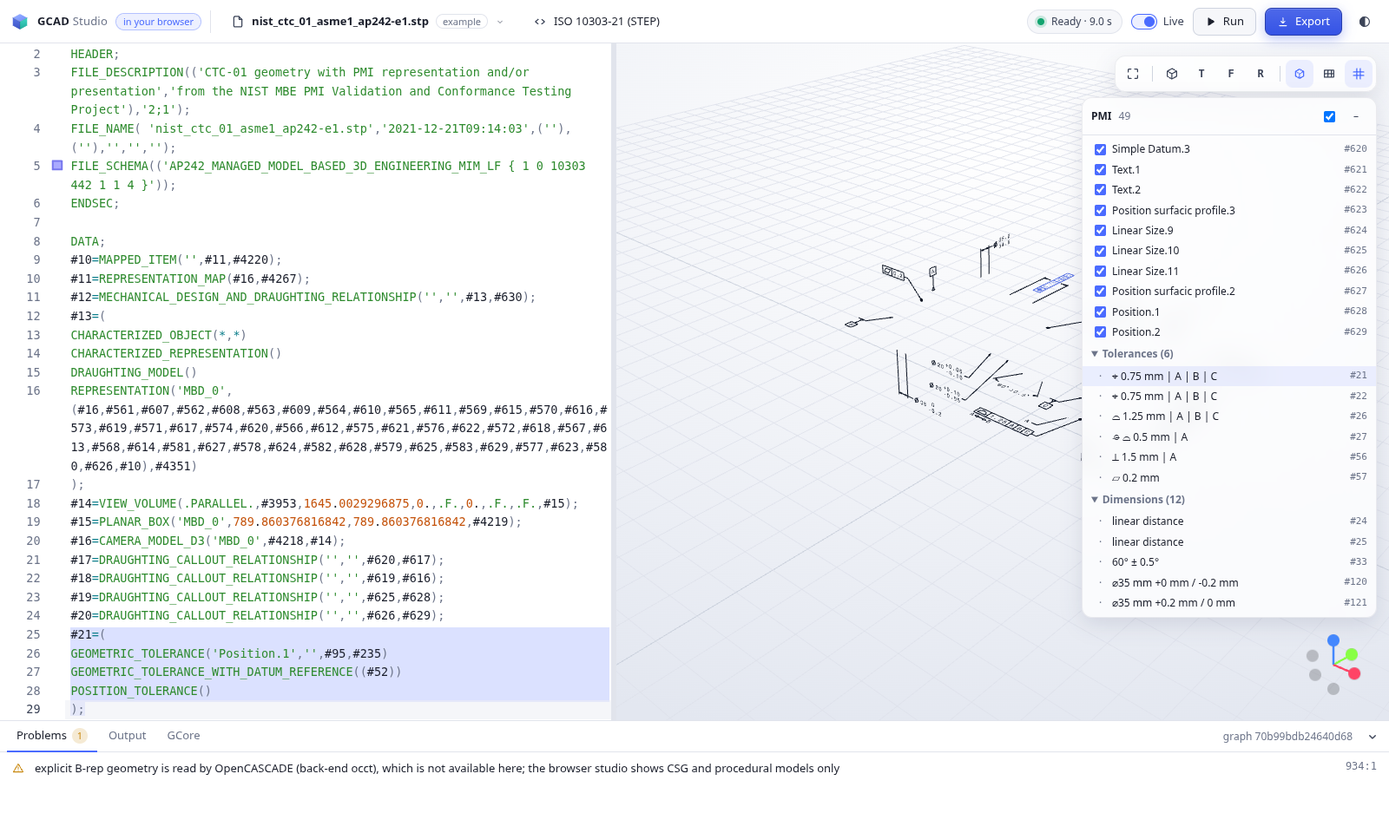
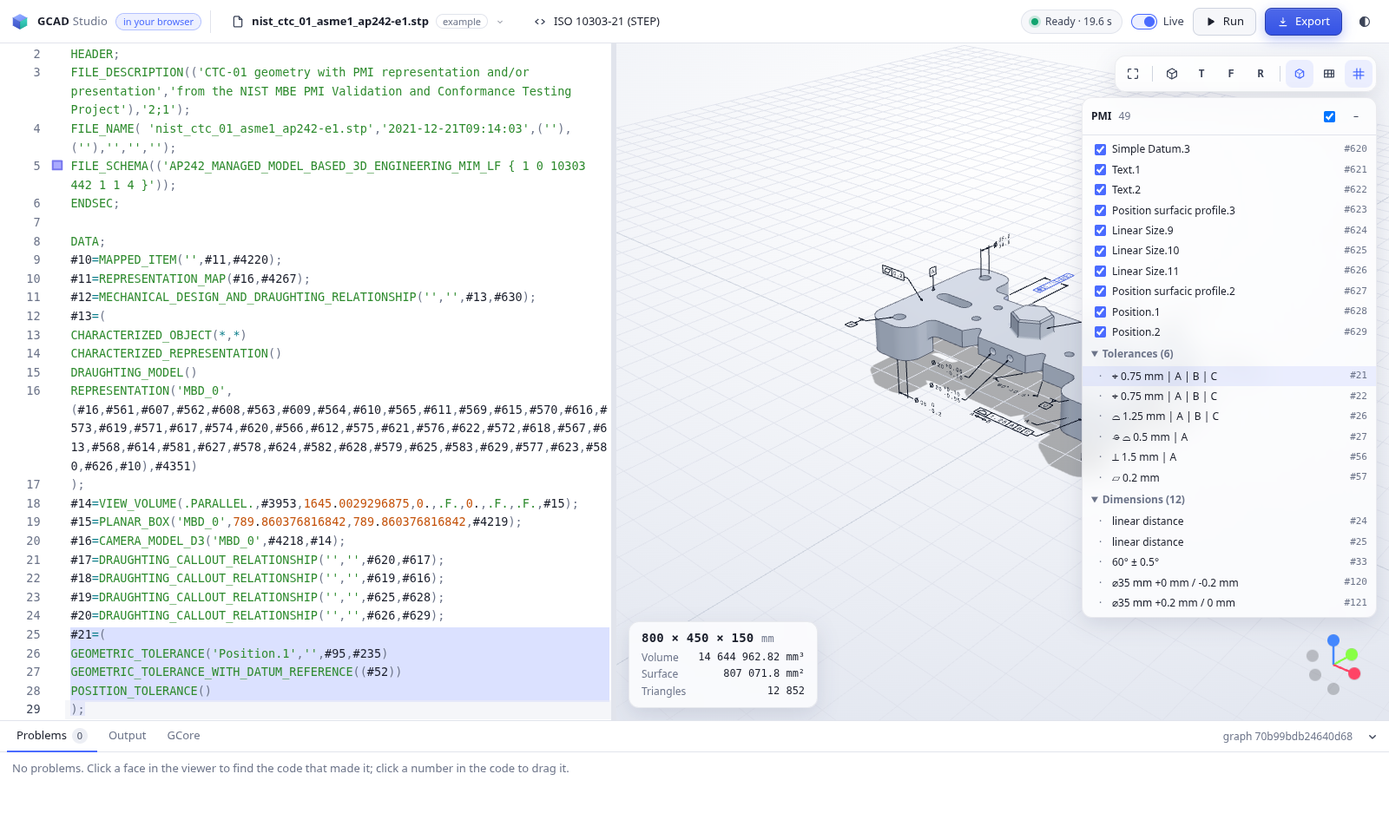
fix(web): draw explicit B-rep STEP parts in the browser with OpenCASCADE's WebAssembly build
The web studio left a STEP file's B-rep out and showed its PMI floating
in space. OpenCASCADE's WebAssembly build (occt-import-js 0.0.23,
LGPL-2.1, pinned and SHA-256-checked in tools/site-assets.toml) now
reads and tessellates it in the worker, loaded only when a STEP file is
evaluated. Faces keep their #n: OpenCASCADE explores a solid's faces in
the order its CLOSED_SHELL lists them, checked against OCP's entity
numbers on both NIST examples. The Manifold JS binding gains run ids,
face ids and reserve_ids; welding is shared with back-end B.

CTC-01 in the browser: volume 14,644,962.82 mm3 (native .72), the same
#n and source span on all 117 faces. The site grows from 20.3 to 28.2 MB.

diff --git a/src/gcad/web/js/worker.js b/src/gcad/web/js/worker.js
@@ -9,6 +9,30 @@ const ROOT = "/home/pyodide/studio"; // user files, backed by IndexedDB
 const status = (text) => postMessage({ type: "status", text });
 let pyodide = null;
 let handle = null;
+let occt = null;
+
+// OpenCASCADE's WebAssembly build (occt-import-js, 7.6 MB): fetched the first time a STEP file
+// is evaluated, then kept. Its script defines a global factory, so it is evaluated, not
+// imported. Python reaches it as the JS module `_gcad_occt` (gcad/backends/occt_js.py).
+async function ensureOcct() {
+  if (occt) return occt;
+  occt = (async () => {
+    status("Loading OpenCASCADE");
+    const base = new URL("occt/", site);
+    const code = await (await fetch(new URL("occt-import-js.js", base))).text();
+    const factory = new Function(`${code}\nreturn occtimportjs;`)();
+    const module = await factory({ locateFile: (path) => new URL(path, base).href });
+    pyodide.registerJsModule("_gcad_occt", module);
+    return module;
+  })();
+  try {
+    return await occt;
+  } catch (error) {
+    occt = null; // try again next time; meanwhile STEP B-rep is left out with a warning
+    status(`OpenCASCADE could not be loaded (${error})`);
+    return null;
+  }
+}
 
 function syncfs(populate) {
   return new Promise((resolve) => pyodide.FS.syncfs(populate, (error) => {
@@ -49,6 +73,7 @@ onmessage = async ({ data }) => {
   }
   let response;
   let fatal = false;
+  if (data.kernel === "iso10303") await ensureOcct();
   try {
     response = handle(data.request);
     if (data.method === "file/save") await syncfs(false);

diff --git a/src/gcad/web/js/worker-client.js b/src/gcad/web/js/worker-client.js
@@ -62,7 +62,8 @@ export class WorkerTransport {
     if (!this.active.ready || this.running || !this.queue.length) return;
     const job = (this.running = this.queue.shift());
     const request = JSON.stringify({ jsonrpc: "2.0", id: job.id, method: job.method, params: job.params });
-    this.active.worker.postMessage({ type: "request", id: job.id, method: job.method, request });
+    // The kernel tells the worker what to load first (OpenCASCADE for STEP files).
+    this.active.worker.postMessage({ type: "request", id: job.id, method: job.method, kernel: job.params?.kernel, request });
   }
 
   supersede(job) {

diff --git a/src/gcad/web/js/main.js b/src/gcad/web/js/main.js
@@ -146,7 +146,7 @@ const fmt = (v) => number.format(v).replace(/,/g, " ");
 function showModelCard(result) {
   const card = $("#model-card");
   card.replaceChildren();
-  // Nothing built (a B-rep left out in the browser, only its annotations shown): no stats.
+  // Nothing built (a B-rep left out where no OpenCASCADE exists, only its PMI shown): no stats.
   card.hidden = !result.bounds;
   if (!result.bounds) return;
   const [lo, hi] = result.bounds;

diff --git a/src/gcad/backends/occt_js.py b/src/gcad/backends/occt_js.py
@@ -1,0 +1,84 @@
+"""Explicit B-rep in the browser: OpenCASCADE compiled to WebAssembly (SPEC §4.1, FR-I5).
+
+OCP has no Pyodide build, so the web studio reads a STEP file's B-rep with occt-import-js, the
+same OpenCASCADE behind a small JS API (LGPL-2.1, a separate file the site serves). The web
+worker loads it only when a STEP file is evaluated, and registers it as the JS module
+`_gcad_occt`. It gives triangles per B-rep face, in millimetres, in the order OpenCASCADE
+explores the faces, which for a solid is the order its CLOSED_SHELL lists them: so each face
+keeps the `#n` it was written as, as with back-end B natively.
+"""
+
+from __future__ import annotations
+
+import re
+
+import numpy as np
+
+from gcad.diagnostics import GcadError, Span
+from gcad.mesh import Mesh, MeshGroup, weld
+
+_SHELL = re.compile(rb"(?:CLOSED|OPEN)_SHELL\s*\(\s*'(?:[^']|'')*'\s*,\s*\(([^)]*)\)")
+
+
+def available() -> bool:
+    try:
+        import _gcad_occt  # noqa: F401  (registered by js/worker.js)
+    except ImportError:
+        return False
+    return True
+
+
+def shell_faces(data: bytes) -> list[list[str]]:
+    """The faces of each shell of a Part 21 file, as `#n`, in the order the file lists them."""
+    return [
+        [f.strip().decode("ascii") for f in m.group(1).split(b",")] for m in _SHELL.finditer(data)
+    ]
+
+
+def read_step(data: bytes, tolerance: float, node_id: str, span: Span | None = None) -> Mesh:
+    """The B-rep of a STEP file as one welded mesh, a group per face labelled with its `#n`
+    when the faces OpenCASCADE made match the file's shells one for one."""
+    import _gcad_occt as occt
+    import js
+    from pyodide.ffi import to_js
+
+    params = to_js(
+        {
+            "linearUnit": "millimeter",
+            "linearDeflectionType": "absolute_value",
+            "linearDeflection": float(tolerance),
+            "angularDeflection": 0.5,
+        },
+        dict_converter=js.Object.fromEntries,
+    )
+    result = occt.ReadStepFile(to_js(data), params)
+    if not result.success:
+        raise GcadError("OpenCASCADE (WebAssembly) could not read the STEP data", span)
+    points: list[np.ndarray] = []
+    triangles: list[np.ndarray] = []
+    face_of_triangle: list[np.ndarray] = []
+    faces = 0
+    base = 0
+    for mesh in result.meshes:
+        pos = np.asarray(mesh.attributes.position.array.to_py(), dtype=np.float64).reshape(-1, 3)
+        tri = np.asarray(mesh.index.array.to_py(), dtype=np.int64).reshape(-1, 3) + base
+        owner = np.zeros(len(tri), dtype=np.int64)
+        for face in mesh.brep_faces:
+            owner[int(face.first) : int(face.last) + 1] = faces
+            faces += 1
+        points.append(pos)
+        triangles.append(tri)
+        face_of_triangle.append(owner)
+        base += len(pos)
+    if not triangles or sum(len(t) for t in triangles) == 0:
+        raise GcadError("OpenCASCADE (WebAssembly) found no faces in the STEP data", span)
+    vertices, tris, keep = weld(np.concatenate(points), np.concatenate(triangles), tolerance)
+    owner = np.concatenate(face_of_triangle)[keep]
+    names: list[str | None] = [n for shell in shell_faces(data) for n in shell]
+    if len(names) != faces:  # an assembly or a file this reading does not match: no labels
+        names = [None] * faces
+    groups = [MeshGroup(node_id, None, name) for name in names]
+    used = sorted(set(owner.tolist()))
+    remap = np.zeros(max(faces, 1), dtype=np.int64)
+    remap[used] = np.arange(len(used))
+    return Mesh(vertices, tris, [groups[i] for i in used], remap[owner])

diff --git a/src/gcad/backends/manifold_backend.py b/src/gcad/backends/manifold_backend.py
@@ -194,30 +194,36 @@ class _Realizer:
     def imported(self, node: Node, color: RGBA | None) -> mf.Manifold:
         """Geometry handed over as a file (an `import` node). A triangle mesh is read as it
         is. Explicit B-rep (STEP) is read and tessellated by OpenCASCADE, as for any mesh
-        export from back-end B; without OpenCASCADE (the web studio, Windows on ARM) nothing
-        here can read it. Each B-rep face keeps its own id through booleans, labelled with the
-        file entity it came from."""
+        export from back-end B: natively through OCP, in the web studio through its WebAssembly
+        build. Without either (Windows on ARM) nothing here can read it. Each B-rep face keeps
+        its own id through booleans, labelled with the file entity it came from."""
         fmt, digest = str(node.arg("format")), str(node.arg("data"))
         if digest not in self.blobs:
             raise GcadError("the data this import reads is not in the graph", node.span)
         if fmt != "step":
             return self.tag(self.imported_mesh(node, fmt, digest), node, color)
+        entity = int(node.num("entity"))
         try:
             from gcad.backends.occt_backend import OcctModel, read_step, step_face_names
         except ImportError:
-            error = GcadError(
-                "explicit B-rep geometry is read by OpenCASCADE (back-end occt), which is not "
-                "available here; the browser studio shows CSG and procedural models only",
-                node.span,
-            )
-            if self.skip_imports:
-                self.skipped.append(error)
-                return mf.Manifold()
-            raise error from None
-        entity = int(node.num("entity"))
-        shape = read_step(self.blobs[digest], entity, digest, node.span)
-        names = step_face_names(digest, entity)
-        mesh = OcctModel(shape, 3, self.tolerance, node.id, None, None, names).mesh()
+            from gcad.backends import occt_js
+
+            if occt_js.available():
+                mesh = occt_js.read_step(self.blobs[digest], self.tolerance, node.id, node.span)
+            else:
+                error = GcadError(
+                    "explicit B-rep geometry is read by OpenCASCADE (back-end occt), which is "
+                    "not available here",
+                    node.span,
+                )
+                if self.skip_imports:
+                    self.skipped.append(error)
+                    return mf.Manifold()
+                raise error from None
+        else:
+            shape = read_step(self.blobs[digest], entity, digest, node.span)
+            names = step_face_names(digest, entity)
+            mesh = OcctModel(shape, 3, self.tolerance, node.id, None, None, names).mesh()
         original = int(mf.Manifold.reserve_ids(1))
         try:
             m = mf.Manifold(

diff --git a/src/gcad/backends/manifold_js.py b/src/gcad/backends/manifold_js.py
@@ -86,6 +86,7 @@ class Mesh:
         tri_verts: np.ndarray,
         run_index: np.ndarray | None = None,
         run_original_id: np.ndarray | None = None,
+        face_id: np.ndarray | None = None,
     ) -> None:
         self.vert_properties = np.asarray(vert_properties)
         self.tri_verts = np.asarray(tri_verts)
@@ -93,6 +94,7 @@ class Mesh:
         self.run_original_id = (
             run_original_id if run_original_id is not None else np.zeros(0, dtype=np.uint32)
         )
+        self.face_id = face_id if face_id is not None else np.zeros(0, dtype=np.uint32)
 
 
 class CrossSection(_Owned):
@@ -162,6 +164,14 @@ class Manifold(_Owned):
                 "vertProperties": _array(props, "<f4", js.Float32Array),
                 "triVerts": _array(mesh.tri_verts, "<u4", js.Uint32Array),
             }
+            # runs and face ids, as manifold3d takes them: an imported B-rep keeps its faces
+            for key, values in (
+                ("runIndex", mesh.run_index),
+                ("runOriginalID", mesh.run_original_id),
+                ("faceID", mesh.face_id),
+            ):
+                if len(values):
+                    options[key] = _array(np.asarray(values), "<u4", js.Uint32Array)
             js_mesh = _wasm.Mesh.new(to_js(options, dict_converter=js.Object.fromEntries))
             try:
                 _js = _wasm.Manifold.new(js_mesh)
@@ -250,6 +260,10 @@ class Manifold(_Owned):
     def original_id(self) -> int:
         return int(self._js.originalID())
 
+    @staticmethod
+    def reserve_ids(n: int) -> int:
+        return int(_wasm.Manifold.reserveIDs(int(n)))
+
     def status(self) -> Error:
         return self._failed or Error(self._js.status())
 
@@ -275,4 +289,5 @@ class Manifold(_Owned):
             _numpy(m.triVerts, "<u4").reshape(-1, 3),
             _numpy(m.runIndex, "<u4"),
             _numpy(m.runOriginalID, "<u4"),
+            _numpy(m.faceID, "<u4"),
         )

diff --git a/src/gcad/backends/occt_backend.py b/src/gcad/backends/occt_backend.py
@@ -56,7 +56,7 @@ except ImportError:  # pragma: no cover - OCP 7.x
 
 from gcad.core.graph import ATTRIBUTE_OPS, Graph, Node, default_tolerance, node_matrix
 from gcad.diagnostics import GcadError, Span
-from gcad.mesh import RGBA, Mesh, MeshGroup
+from gcad.mesh import RGBA, Mesh, MeshGroup, weld
 
 POLYGONAL_FN_MAX = 16  # an explicit $fn up to this makes a polygon, as in OpenSCAD
 
@@ -199,16 +199,7 @@ class OcctModel:
                 triangles.append((base + a - 1, base + b - 1, base + c - 1))
                 tri_groups.append(g)
         # Faces carry their own copies of shared edge nodes: weld them.
-        raw = np.asarray(points, dtype=np.float64).reshape(-1, 3)
-        key = np.round(raw / max(self.tolerance * 1e-4, 1e-9)).astype(np.int64)
-        _, first, inverse = np.unique(key, axis=0, return_index=True, return_inverse=True)
-        order = np.argsort(first)
-        rank = np.empty_like(order)
-        rank[order] = np.arange(len(order))
-        vertices = raw[first[order]]
-        tris = rank[inverse.ravel()][np.asarray(triangles, dtype=np.int64).reshape(-1, 3)]
-        keep = (tris[:, 0] != tris[:, 1]) & (tris[:, 1] != tris[:, 2]) & (tris[:, 0] != tris[:, 2])
-        tris = tris[keep]
+        vertices, tris, keep = weld(np.asarray(points), np.asarray(triangles), self.tolerance)
         tri_group = np.asarray(tri_groups, dtype=np.int64).reshape(-1)[keep]
         used = sorted(set(tri_group.tolist()))
         if used != list(range(len(groups))):  # drop groups left without triangles

diff --git a/tests/test_web.py b/tests/test_web.py
@@ -187,10 +187,13 @@ def test_every_example_matches_the_native_mesh_backend(page: object, native: Stu
         assert web["hash"] == ref["hash"], example["name"]
         assert web.get("annotations") == ref.get("annotations"), example["name"]
         if any(g.get("entity") for g in ref.get("groups", [])):
-            # explicit B-rep: OpenCASCADE reads it natively; the browser has none, leaves it out
-            # with a warning and still shows the file's PMI (AC-30)
-            assert web["triangles"] == 0 and web["annotations"], example["name"]
-            assert any("OpenCASCADE" in d["message"] for d in web["diagnostics"])
+            # explicit B-rep: read by OpenCASCADE natively and by its WebAssembly build here,
+            # which meshes it a little differently: the same solid, the same labelled faces
+            assert web["triangles"] > 0, example["name"]
+            assert web["volume"] == pytest.approx(ref["volume"], rel=1e-4), example["name"]
+            assert np.allclose(web["bounds"], ref["bounds"], rtol=1e-6, atol=1e-6), example["name"]
+            faces = {g["entity"]: g["spans"] for g in web["groups"]}
+            assert faces == {g["entity"]: g["spans"] for g in ref["groups"]}, example["name"]
             continue
         assert np.allclose(web["bounds"], ref["bounds"], rtol=1e-6, atol=1e-6), example["name"]
         assert web["area"] == pytest.approx(ref["area"], rel=1e-6), example["name"]

diff --git a/src/gcad/mesh.py b/src/gcad/mesh.py
@@ -53,3 +53,21 @@ class Mesh:
         group_color = np.array([colors.index(g.color) for g in self.groups], dtype=np.int64)
         tri_color = group_color[self.tri_group] if len(self.groups) else np.zeros(0, np.int64)
         return [(c, np.flatnonzero(tri_color == i)) for i, c in enumerate(colors)]
+
+
+def weld(
+    points: np.ndarray, triangles: np.ndarray, tolerance: float
+) -> tuple[np.ndarray, np.ndarray, np.ndarray]:
+    """Merge points closer than a ten-thousandth of the tolerance: a B-rep's faces are meshed
+    each with its own copy of their shared edges. Returns the vertices in order of first use,
+    the triangles on them, and which input triangles were kept (not collapsed to a line)."""
+    raw = np.asarray(points, dtype=np.float64).reshape(-1, 3)
+    key = np.round(raw / max(tolerance * 1e-4, 1e-9)).astype(np.int64)
+    _, first, inverse = np.unique(key, axis=0, return_index=True, return_inverse=True)
+    order = np.argsort(first)
+    rank = np.empty_like(order)
+    rank[order] = np.arange(len(order))
+    vertices = raw[first[order]]
+    tris = rank[inverse.ravel()][np.asarray(triangles, dtype=np.int64).reshape(-1, 3)]
+    keep = (tris[:, 0] != tris[:, 1]) & (tris[:, 1] != tris[:, 2]) & (tris[:, 0] != tris[:, 2])
+    return vertices, tris[keep], keep

diff --git a/tools/build_site.py b/tools/build_site.py
@@ -162,6 +162,12 @@ def build(out: Path, cache: Path) -> None:
     for name, data in npm_files(fetch(mf["url"], mf["sha256"], cache), mf["files"]).items():
         (out / "manifold" / name).write_bytes(data)
 
+    oc = assets["occt"]
+    print(f"occt-import-js {oc['version']}")
+    (out / "occt").mkdir()
+    for name, data in npm_files(fetch(oc["url"], oc["sha256"], cache), oc["files"]).items():
+        (out / "occt" / Path(name).name).write_bytes(data)
+
     (out / "wheels").mkdir()
     wheels: list[str] = []
     for wheel in assets["wheels"]:
@@ -186,6 +192,8 @@ def build(out: Path, cache: Path) -> None:
             for name in packages
         ),
         f"- manifold-3d {mf['version']} ({mf['license']}): {mf['source']}; see manifold/LICENSE",
+        f"- occt-import-js {oc['version']} with OpenCASCADE ({oc['license']}): {oc['source']}; "
+        "see occt/license.occt-import-js.txt and occt/license.occt.txt",
         *(f"- {w['name']} {w['version']} ({w['license']})" for w in assets["wheels"]),
         "- three.js and CodeMirror (MIT): see vendor/",
         "",

diff --git a/src/gcad/server.py b/src/gcad/server.py
@@ -246,7 +246,7 @@ class Studio:
         file: str | None = None,
         diagnostics: list[Diagnostic] | None = None,
     ) -> dict[str, object]:
-        # Without OpenCASCADE (the browser) an imported B-rep is left out with a warning, so
+        # Without any OpenCASCADE (Windows on ARM) an imported B-rep is left out with a warning, so
         # the rest of the model and its annotations still show.
         from gcad.backends.manifold_backend import ManifoldBackend
 

diff --git a/docs/design/iso10303-kernel.md b/docs/design/iso10303-kernel.md
@@ -129,7 +129,7 @@ Reuse of freecad-nxstyle (decided, not forked silently): `p21.py`, `express.py`,
 
 **(b) Grammar and semantics meet at the record.** Lark decides the exchange structure (§1.2); everything that needs another instance or a schema is the semantic layer (§1.3), run by the engine after parsing. Its violations are errors with `origin = "check"`: the console shows them and `gcad eval` exits non-zero, but the model is still built, so an OpenCASCADE file with the wrong AP242 protocol name (error 14 of §6) still opens.
 
-**(c) Explicit B-rep is read by OpenCASCADE, a file at a time.** The `import` op names the file's text by SHA-256; back-end B reads it with `STEPControl_Reader`, back-end M tessellates that and uses the mesh. Rejected: one import per solid entity, because OpenCASCADE 8 cannot transfer a single `MANIFOLD_SOLID_BREP` (`TransferEntity` refuses it, and asking the transient process for a result crashes). Consequence: an explicit solid inside a history (a Part 55 hybrid step) is refused with a diagnostic. In the browser there is no OpenCASCADE: B-rep files give a diagnostic that says so; CSG and procedural files work.
+**(c) Explicit B-rep is read by OpenCASCADE, a file at a time.** The `import` op names the file's text by SHA-256; back-end B reads it with `STEPControl_Reader`, back-end M tessellates that and uses the mesh. Rejected: one import per solid entity, because OpenCASCADE 8 cannot transfer a single `MANIFOLD_SOLID_BREP` (`TransferEntity` refuses it, and asking the transient process for a result crashes). Consequence: an explicit solid inside a history (a Part 55 hybrid step) is refused with a diagnostic. In the browser OpenCASCADE's WebAssembly build, occt-import-js (LGPL-2.1, a separate 7.6 MB file the site serves and the worker loads only for STEP files), reads and tessellates the file the same way ([`occt_js.py`](../../src/gcad/backends/occt_js.py)); it gives no entity numbers, so a face's `#n` comes from the order of the faces, which for a solid is the order its CLOSED_SHELL lists them (checked against OCP's entity numbers on both NIST examples, and by the web test). Where neither exists (Windows on ARM) a B-rep file gives a diagnostic that says so.
 
 **(d) EXPRESS stays a validation layer.** A kernel's job is to produce geometry; an EXPRESS schema has none. Schema browsing and checking are `gcad iso schema` and `gcad iso check`. Rejected for now: an `express` highlighting kernel (its grammar is Part 11 annex A, about 330 productions, ambiguous by design, §1.2).
 
@@ -181,20 +181,20 @@ Requested 2026-10-27, after the M14 brief. A STEP AP242 file's annotations are r
 | `(annotate id label ...)`: annotations beside the graph, never in it (FR-C11) | [`annotations.py`](../../src/gcad/core/annotations.py), builtins | a callout's lines and glyph triangles, a tolerance's text and faces, a saved view's camera; no graph hash changes, no back-end sees them |
 | named records (`(record "#12" ...)` is named `#12`) and mesh groups labelled with the source entity a face came from | evaluator, [`mesh.py`](../../src/gcad/mesh.py), both back-ends | OpenCASCADE says which `ADVANCED_FACE` each face was read from (`EntityFromShapeResult` gives the model index, which is the instance order in the file); Manifold keeps each face's id through booleans; the studio points a face at its `#n` line and lights up the faces a tolerance applies to |
 | `position`, `positions`, native `filter` | builtins | lookup tables for files of thousands of instances; the PMI pass went from 12 s to under 2 s on CTC-01 |
-| a preview without OpenCASCADE leaves an import out with a warning | [`manifold_backend.py`](../../src/gcad/backends/manifold_backend.py), [`server.py`](../../src/gcad/server.py) | the web studio shows a B-rep file's PMI without its solid |
+| explicit B-rep in the browser through OpenCASCADE's WebAssembly build; a preview with no OpenCASCADE at all leaves an import out with a warning | [`occt_js.py`](../../src/gcad/backends/occt_js.py), [`manifold_backend.py`](../../src/gcad/backends/manifold_backend.py), [`worker.js`](../../src/gcad/web/js/worker.js) | the web studio shows a B-rep file's part with its PMI |
 | `time_limit` in `kernel.toml` (at most 60 s) | [`kernels/__init__.py`](../../src/gcad/kernels/__init__.py), pipeline | STEP files are data; the web studio's Python needs more than 10 s on a PMI file |
 | the checker caches its result per text | [`check.py`](../../src/gcad/iso10303/check.py) | the studio re-runs a file on every edit; CTC-01's rules take 20 s |
 | the annotation panel and overlay (FR-U11) | [`pmi.js`](../../src/gcad/web/js/pmi.js), [`viewer.js`](../../src/gcad/web/js/viewer.js) | sections, a check box per drawn annotation, saved views as chips, details, faces as `#n` chips |
 
 **Mapping.** A DRAUGHTING_CALLOUT (or an occurrence in none) becomes one annotation of kind `callout`, drawn from its occurrences: TESSELLATED_ANNOTATION_OCCURRENCE with TESSELLATED_GEOMETRIC_SET, REPOSITIONED_TESSELLATED_ITEM (its placement), TESSELLATED_CURVE_SET (line strips), COMPLEX_TRIANGULATED_SURFACE_SET (strips and fans) and TRIANGULATED_SURFACE_SET (the glyphs NIST's files fill); ANNOTATION_CURVE_OCCURRENCE and ANNOTATION_OCCURRENCE with GEOMETRIC_CURVE_SET or GEOMETRIC_SET of POLYLINE, CIRCLE and COMPOSITE_CURVE. Coordinates are in the draughting model's units, converted to mm. A DRAUGHTING_MODEL with a CAMERA_MODEL_D3 is a saved view: the callouts among its items or in its ANNOTATION_PLANEs, and the camera looking down the negative z of its view reference system. GEOMETRIC_TOLERANCE and its 15 subtypes (simple or complex, with datum systems, modifiers, a cylindrical TOLERANCE_ZONE as ⌀, ALL_AROUND_SHAPE_ASPECT as ⌮), DIMENSIONAL_SIZE/LOCATION and their angular subtypes (values from DIMENSIONAL_CHARACTERISTIC_REPRESENTATION, ± from PLUS_MINUS_TOLERANCE, limits, theoretical as [ ], statistical as <ST>), DATUM, DATUM_FEATURE, DATUM_TARGET, PLACED_DATUM_TARGET_FEATURE and DATUM_SYSTEM are listed. Faces: GEOMETRIC_ITEM_SPECIFIC_USAGE and ITEM_IDENTIFIED_REPRESENTATION_USAGE from an aspect, through plain SHAPE_ASPECT_RELATIONSHIPs from composite aspects to their members, and from a datum to its features. DRAUGHTING_MODEL_ITEM_ASSOCIATION links each semantic item to its callout. Not shown: ANNOTATION_PLACEHOLDER_OCCURRENCE's text (its leader polylines are drawn), TEXT_LITERAL, fill areas, B-spline curves in annotations; none occurs in NIST's AP242 files except placeholders.
 
-**Examples and licence.** The bundled examples are NIST's `nist_ctc_01_asme1_ap242-e1.stp` (396,445 bytes: tessellated PMI, one saved view) and `nist_ctc_05_asme1_ap242-e1.stp` (878,030 bytes: polyline PMI in inches, two saved views), byte for byte from `NIST-PMI-STEP-Files.zip` (SHA-256 `8fa78429…1911`, 13,976,599 bytes, fetched 2026-10-28 from the [MBE PMI Validation and Conformance Testing](https://www.nist.gov/ctl/smart-connected-systems-division/smart-connected-manufacturing-systems-group/mbe-pmi-0) download page). That page's NIST disclaimer says the test cases, CAD models and STEP files "can be used without any restrictions" and asks for acknowledgement; the NIST logo may not be used in promotional material. The files are acknowledged in the README; no ISO text is involved. The other CTC and the FTC/STC files (0.7 to 6 MB) are not bundled: the two above keep the web build at 20.3 MB. Natively the larger files evaluate in 5 to 20 s after 4 to 27 s of parsing, within the kernel's 30 s limit; in the browser they would be slower still.
+**Examples and licence.** The bundled examples are NIST's `nist_ctc_01_asme1_ap242-e1.stp` (396,445 bytes: tessellated PMI, one saved view) and `nist_ctc_05_asme1_ap242-e1.stp` (878,030 bytes: polyline PMI in inches, two saved views), byte for byte from `NIST-PMI-STEP-Files.zip` (SHA-256 `8fa78429…1911`, 13,976,599 bytes, fetched 2026-10-28 from the [MBE PMI Validation and Conformance Testing](https://www.nist.gov/ctl/smart-connected-systems-division/smart-connected-manufacturing-systems-group/mbe-pmi-0) download page). That page's NIST disclaimer says the test cases, CAD models and STEP files "can be used without any restrictions" and asks for acknowledgement; the NIST logo may not be used in promotional material. The files are acknowledged in the README; no ISO text is involved. The other CTC and the FTC/STC files (0.7 to 6 MB) are not bundled: the two above keep the web build at 28.2 MB with OpenCASCADE's WebAssembly build (7.6 MB, fetched only when a STEP file is opened). Natively the larger files evaluate in 5 to 20 s after 4 to 27 s of parsing, within the kernel's 30 s limit; in the browser they would be slower still.
 
 **Verification against NIST's expected PMI.** NIST's STEP File Analyzer (SFA 5.51) carries the expected semantic PMI of each test case (`SFA-PMI-nist_ctc_0n.xlsx`, inside the release). Compared by hand for the two bundled files, in GCAD's notation:
 
 - CTC-01: all 9 expected dimensions (⌀20 +0.05/−0.10, ⌀20 +0.10/−0.05, ⌀25 ± 0.15, ⌀34.8–35.2 twice, ⌀35 0/−0.2, ⌀35 +0.2/0, 60° ± 0.5°), all 6 tolerances (⌖ 0.75 A|B|C twice, ⌓ 1.25 A|B|C, ⌮ ⌓ 0.5 A, ⟂ 1.5 A, ⏥ 0.2) and both datum systems (A, A|B|C) are listed with these values. GCAD also lists two DIMENSIONAL_LOCATIONs and two DIMENSIONAL_SIZEs that have no value in the file.
 - CTC-05: all 10 tolerances (three ↗ A-B, ⟂ C, ⟂ D, ⏤ .005, ○ .002, two ⌰), 6 dimensions ([1.250] and [2.000] twice each, ⌀10 ± .001, 5 ± .008 <ST>), 5 datum systems and the datum targets C1 and D1. One difference of naming: the file's ◎ ⌀.030 A is a CONCENTRICITY_TOLERANCE, which GCAD reports as written; SFA reports it as coaxiality.
-- Values are shown as the file stores them (0.035 in, not .035): GCAD does not apply the files' VALUE_FORMAT_TYPE_QUALIFIER. Graphical PMI was compared by eye with NIST's image of CTC-01 (in the same SFA release): every frame, dimension, datum symbol and leader is where NIST draws it ([native studio](../studio-pmi.png), [browser, without the B-rep](../web-studio-pmi.png)); this is not a measured comparison, and CTC-05's drawing was not compared.
+- Values are shown as the file stores them (0.035 in, not .035): GCAD does not apply the files' VALUE_FORMAT_TYPE_QUALIFIER. Graphical PMI was compared by eye with NIST's image of CTC-01 (in the same SFA release): every frame, dimension, datum symbol and leader is where NIST draws it ([native studio](../studio-pmi.png), [browser](../web-studio-pmi.png)); this is not a measured comparison, and CTC-05's drawing was not compared.
 - 16 of NIST's 17 AP242 files read (`gcad eval`); `nist_stc_07_asme1_ap242-e3.stp` has an instance that refers to itself (#14028), which the kernel reports as a cycle. The tessellated-geometry variant of FTC-08 shows its PMI only, as GCAD does not import meshes (M9).
 
 ## 6. Errors found in the standards
